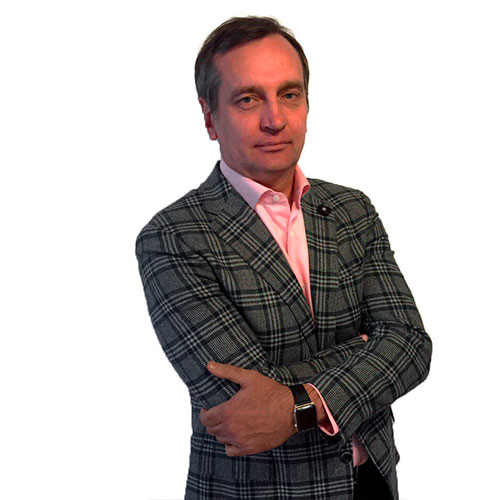
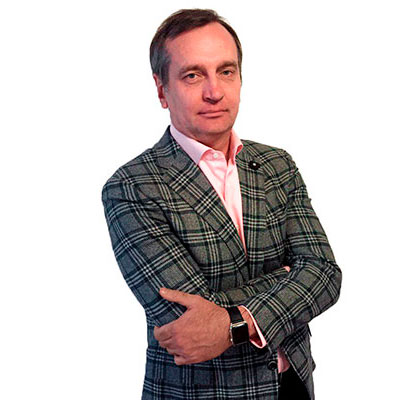
block team new foto

Changed region(s): [[0.24, 0.0, 0.87, 1.0]]

diff --git a/dist/index.html b/dist/index.html
@@ -485,11 +485,11 @@
             <div class="list_team inline-layout">
               <div class="item">
                 <div class="block-image">
-                  <div class="image-holder"><img src="img/content/igor7.jpg" alt="Игорь" class="fake-img">
-                    <div style="background: url('../img/content/igor7.jpg') no-repeat;background-position: top center ;background-repeat: no-repeat;background-size: cover;" class="img"></div>
-                  </div>
                   <div class="image-holder"><img src="img/content/igor8.jpg" alt="Игорь" class="fake-img">
-                    <div style="background: url('../img/content/igor8.jpg') no-repeat;background-position: top center;background-repeat: no-repeat;background-size: cover;" class="img"></div>
+                    <div style="background: url('../img/content/igor8.jpg') no-repeat;background-position: top center ;background-repeat: no-repeat;background-size: cover;" class="img"></div>
+                  </div>
+                  <div class="image-holder"><img src="img/content/igor9.jpg" alt="Игорь" class="fake-img">
+                    <div style="background: url('../img/content/igor9.jpg') no-repeat;background-position: top center;background-repeat: no-repeat;background-size: cover;" class="img"></div>
                   </div>
                 </div>
                 <div class="block-name">
